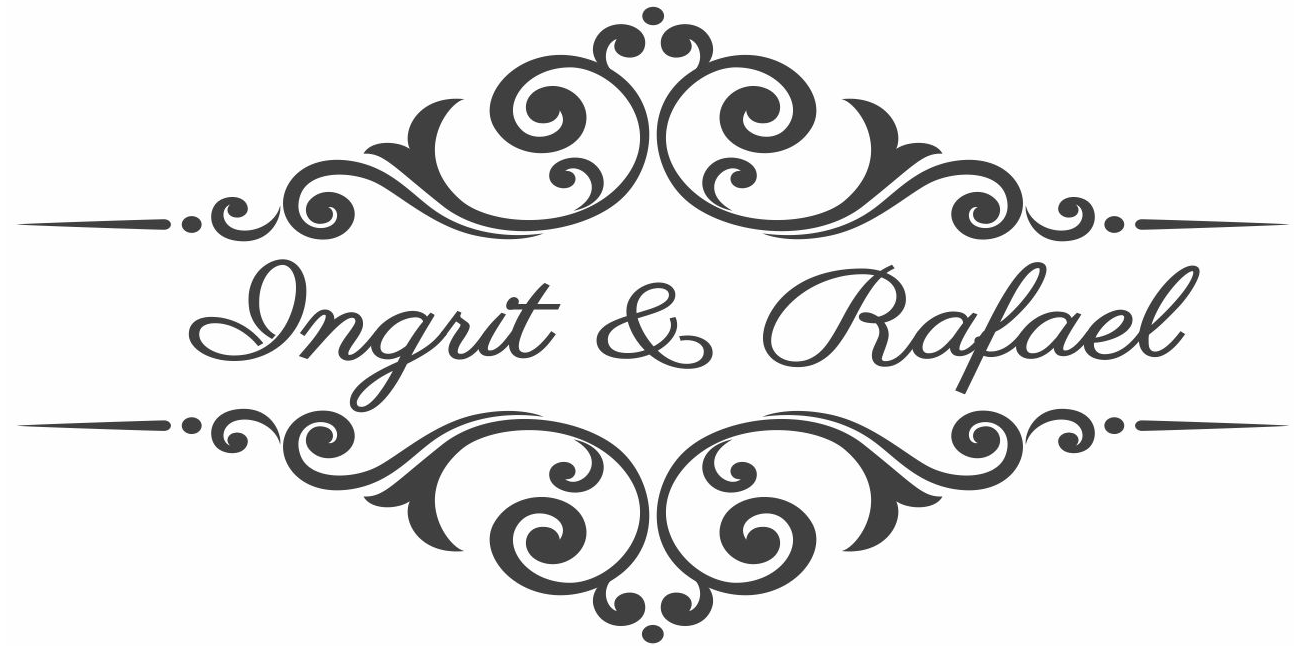
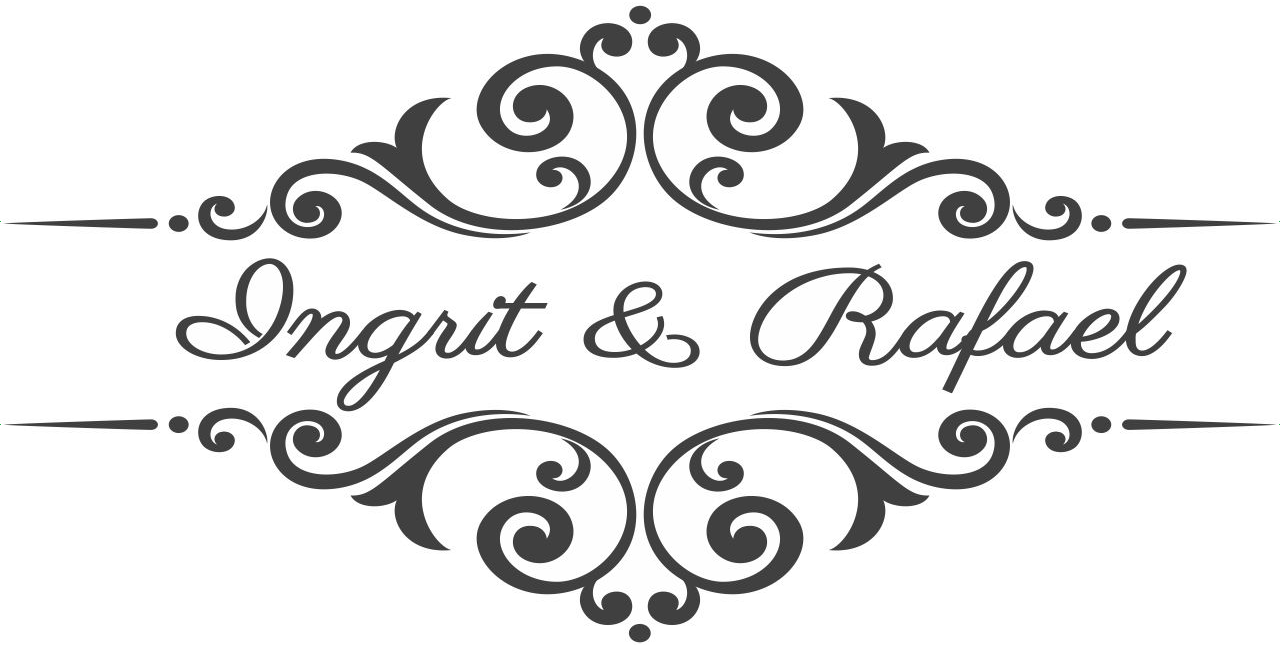
Home page layout definition

Changed region(s): [[0.0, 0.4031, 1.0, 0.9922], [0.0, 0.093, 1.0, 0.3721], [0.4375, 0.031, 0.5625, 0.124]]

diff --git a/index.html b/index.html
@@ -1,9 +1,10 @@
+<!DOCTYPE html>
 <html>
 <head>
 	<meta charset="utf-8" />
 	<title>Ingrit & Rafael</title>
 	<meta name="viewport" content="width=device-width, initial-scale=1, maximum-scale=1, user-scalable=no" />
-	
+
 	<meta name="description" content="Ingrit & Rafael">
 	<meta name="author" content="Rafael">
 
@@ -12,18 +13,98 @@
 	<meta name="apple-mobile-web-app-capable" content="yes" />
 	<meta name="apple-mobile-web-app-status-bar-style" content="default">
 
-		<link rel="stylesheet" href="https://maxcdn.bootstrapcdn.com/bootstrap/4.0.0-alpha.6/css/bootstrap.min.css" integrity="sha384-rwoIResjU2yc3z8GV/NPeZWAv56rSmLldC3R/AZzGRnGxQQKnKkoFVhFQhNUwEyJ" crossorigin="anonymous">
-	<link rel="stylesheet" href="css/site.css?v=2">
+	<link rel="stylesheet" href="https://maxcdn.bootstrapcdn.com/bootstrap/4.0.0-alpha.6/css/bootstrap.min.css" integrity="sha384-rwoIResjU2yc3z8GV/NPeZWAv56rSmLldC3R/AZzGRnGxQQKnKkoFVhFQhNUwEyJ"
+	 crossorigin="anonymous">
+	<link href="https://fonts.googleapis.com/css?family=Great+Vibes" rel="stylesheet">
+	<link rel="stylesheet" href="css/site.css?v=3">
 </head>
 <body>
-	<div class="content">
-		<img id="logo" src="img/ingriterafael.png" class="img-fluid" />
-		<h4 id="countdown"></h4>
-		<img id="fiances" src="img/noivinhos.jpg" />
+	<div class="container">
+		<div class="text-center">
+			<img id="logo" src="img/ingriterafael.png" class="img-fluid" />
+		</div>
+
+		<div id="carouselExampleIndicators" class="carousel slide" data-ride="carousel">
+			<ol class="carousel-indicators">
+				<li data-target="#carouselExampleIndicators" data-slide-to="0" class="active"></li>
+				<li data-target="#carouselExampleIndicators" data-slide-to="1"></li>
+				<li data-target="#carouselExampleIndicators" data-slide-to="2"></li>
+			</ol>
+			<div class="carousel-inner" role="listbox">
+				<div class="carousel-item active">
+					<img class="d-block img-fluid rounded" src="img/cover-01.jpg" alt="First slide">
+				</div>
+				<div class="carousel-item">
+					<img class="d-block img-fluid rounded" src="img/cover-02.jpg" alt="Second slide">
+				</div>
+				<div class="carousel-item">
+					<img class="d-block img-fluid rounded" src="img/cover-03.jpg" alt="Third slide">
+				</div>
+			</div>
+			<a class="carousel-control-prev" href="#carouselExampleIndicators" role="button" data-slide="prev">
+				<span class="carousel-control-prev-icon" aria-hidden="true"></span>
+				<span class="sr-only">Previous</span>
+			</a>
+			<a class="carousel-control-next" href="#carouselExampleIndicators" role="button" data-slide="next">
+				<span class="carousel-control-next-icon" aria-hidden="true"></span>
+				<span class="sr-only">Next</span>
+			</a>
+		</div>	
+
+		<section id="groom-and-bride">
+			<div class="row">
+				<div class="col-md-4">
+					<img src="img/noiva.jpg" alt="..." class="rounded-circle" />
+					<div class="bridge-name">Ingrit</div>
+				</div>
+				<div class="col-md-4 save-the-date">
+					<div class="weeding-weekday">Sábado</div>
+					<div class="weeding-fullday">15 de julho de 2017</div>
+					<div id="countdown"></div>
+				</div>
+				<div class="col-md-4">
+					<img src="img/noivo.jpg" alt="..." class="rounded-circle" />
+					<div class="groom-name">Rafael</div>
+				</div>
+			</div>
+		</section>
+
+		<section id="gift-list">
+			<h1>Lista de Presentes</h1>
+			<div class="row text-center">
+				<div class="col-md-3 col-sm-6">
+					<img src="img/etna.jpg" alt="..." class="img-fluid rounded" />
+				</div>
+				<div class="col-md-3 col-sm-6">
+					<img src="img/pernambucanas.jpg" alt="..." class="img-fluid rounded" />
+				</div>
+				<div class="col-md-3 col-sm-6">
+					<img src="img/riachuelo.jpg" alt="..." class="img-fluid rounded" />
+				</div>
+				<div class="col-md-3 col-sm-6">
+					<img src="img/caixa.jpg" alt="..." class="img-fluid rounded" />
+				</div>
+			</div>
+		</section>
+
+		<section id="map">
+			<h1>Local da Festa</h1>
+			<div class="row">
+				<div class="col-md-12">
+					<iframe src="https://www.google.com/maps/embed?pb=!1m18!1m12!1m3!1d3739.084248164772!2d-54.58353268452136!3d-20.42061398633093!2m3!1f0!2f0!3f0!3m2!1i1024!2i768!4f13.1!3m3!1m2!1s0x9486e84bc42a1109%3A0x5e691b790d41e23d!2sEst%C3%A2ncia+das+Flores+-+Espa%C3%A7o%2C+buffet+e+decora%C3%A7%C3%A3o+para+casamentos!5e0!3m2!1spt-BR!2sbr!4v1494608980932" width="100%" height="450" frameborder="0" style="border:0" allowfullscreen></iframe>
+				</div>
+			</div>
+		</section>
+
+		<section id="footer">
+			Ingrit <img src="img/noivinhos.jpg" /> Rafael
+		</section>
 	</div>
 
-	<script src="https://code.jquery.com/jquery-3.2.1.min.js" integrity="sha256-hwg4gsxgFZhOsEEamdOYGBf13FyQuiTwlAQgxVSNgt4=" crossorigin="anonymous"></script>
-	<script src="https://maxcdn.bootstrapcdn.com/bootstrap/4.0.0-alpha.6/js/bootstrap.min.js" integrity="sha384-vBWWzlZJ8ea9aCX4pEW3rVHjgjt7zpkNpZk+02D9phzyeVkE+jo0ieGizqPLForn" crossorigin="anonymous"></script>
+	<script src="https://code.jquery.com/jquery-3.2.1.min.js" integrity="sha256-hwg4gsxgFZhOsEEamdOYGBf13FyQuiTwlAQgxVSNgt4="
+	 crossorigin="anonymous"></script>
+	<script src="https://maxcdn.bootstrapcdn.com/bootstrap/4.0.0-alpha.6/js/bootstrap.min.js" integrity="sha384-vBWWzlZJ8ea9aCX4pEW3rVHjgjt7zpkNpZk+02D9phzyeVkE+jo0ieGizqPLForn"
+	 crossorigin="anonymous"></script>
 	<script type="text/javascript" src="js/jquery.countdown.min.js"></script>
 	<script type="text/javascript" src="js/site.js"></script>
 
@@ -37,4 +118,5 @@
 		ga('send', 'pageview');
 	</script>
 </body>
+
 </html>

diff --git a/css/site.css b/css/site.css
@@ -1,51 +1,85 @@
+/*-------------------- general --------------------*/
 body {
-	background-color: #0ABBB5;
-	background: linear-gradient(to right bottom, #ccf3f1, #0ABBB5, #078681);
+	background-color: #fff;
+	font-family: 'Great Vibes', cursive;
 }
 
-.content {
-	position: fixed;
-	margin-left: -175px;
-	margin-top: -250px;
-    top: 50%; 
-	left: 50%;
-    width: 350px;
-	text-align: center;
-	background-color: #fff;
-	box-shadow: 2px 2px 3px rgba(0, 0, 0,.5);
-	color: #555;
-	padding: 1px;
+#logo {
+	margin: 20px;
+	width: 300px;
+}
+
+@media (max-width: 768px) {
+	.carousel-item img {
+		height: 250px;
+		width: 100%;
+		object-fit: cover;
+	}
 }
 
 h1 {
-	font-family: 'Lobster', cursive;
-	text-align: center;
-	font-size: 34px;
-}
-
-#countdown {
-	background-color: #ccf3f1;
-	padding: 10px;
-}
-#fiances {
-	width: 80;
-	text-align: center;
-	margin: 10px 0 30px 0;
-}
-#logo {
+	text-align: center;	
 	padding: 20px;
+	color: #0ABBB5;
+	text-shadow: 2px 2px #ddd;
 }
 
-/*animation: pulse 2s linear infinite;
--webkit-animation: pulse 2s linear infinite;
-@keyframes pulse {
-	0% { transform: scale(1, 1); }
-	50% { transform: scale(1.5, 1.5); }
-	100% { transform: scale(1, 1); };
+section {
+	padding: 20px 0;
 }
 
-@-webkit-keyframes pulse {
-	0% { transform: scale(1, 1); }
-	50% { transform: scale(1.5, 1.5); }
-	100% { transform: scale(1, 1); };
-}*/
+/*-------------------- groom-and-bride --------------------*/
+#groom-and-bride {
+	text-align: center;
+}
+
+#groom-and-bride img {
+	border: 4px solid #0ABBB5;
+}
+
+.bridge-name, .groom-name {
+	font-size: 2em;
+	color: #0ABBB5;
+}
+
+.save-the-date {
+	padding: 50px 0 30px 0;
+}
+.save-the-date .weeding-weekday {
+	font-size: 4.6em;
+	line-height: 0.6em;
+	color: #F07677;
+}
+.save-the-date .weeding-fullday {
+	font-size: 3.6em;
+}
+.save-the-date #countdown {
+	font-family: Arial;
+	font-size: 1.5em;
+	color: #ababab;
+}
+
+/*-------------------- gift-list --------------------*/
+#gift-list {
+	background-color: #eee;
+}
+
+#gift-list img {
+	box-shadow: 0 3px 6px rgba(0,0,0,0.16), 0 3px 6px rgba(0,0,0,0.23);
+	margin-bottom: 10px;
+}
+
+#gift-list img:hover {
+	box-shadow: 0 14px 28px rgba(0,0,0,0.25), 0 10px 10px rgba(0,0,0,0.22);
+}
+
+/*-------------------- footer --------------------*/
+section#footer {
+	text-align: center;
+	font-size: 1.5em;
+}
+
+section#footer img {
+	width: 80px;
+	padding: 0 10px;
+}
